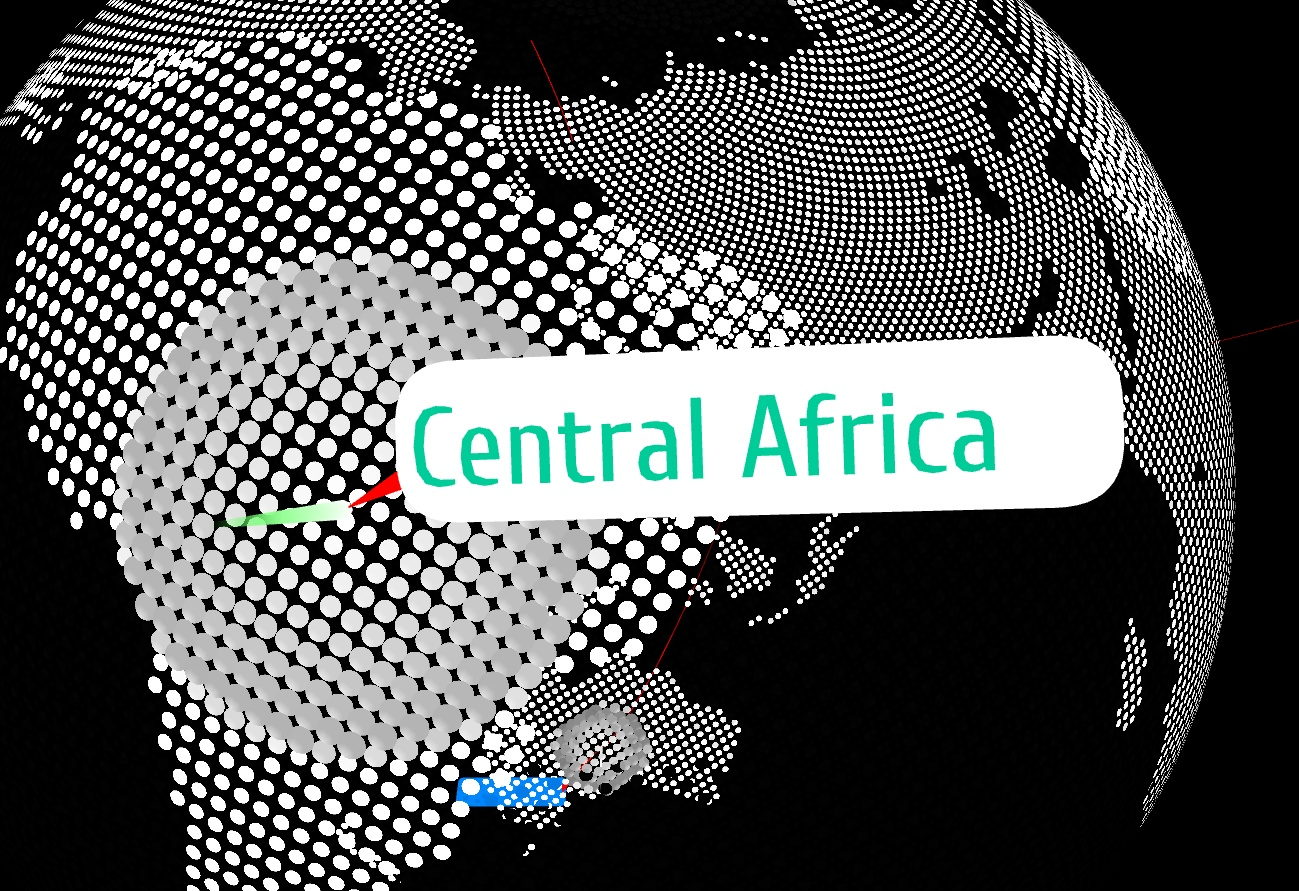
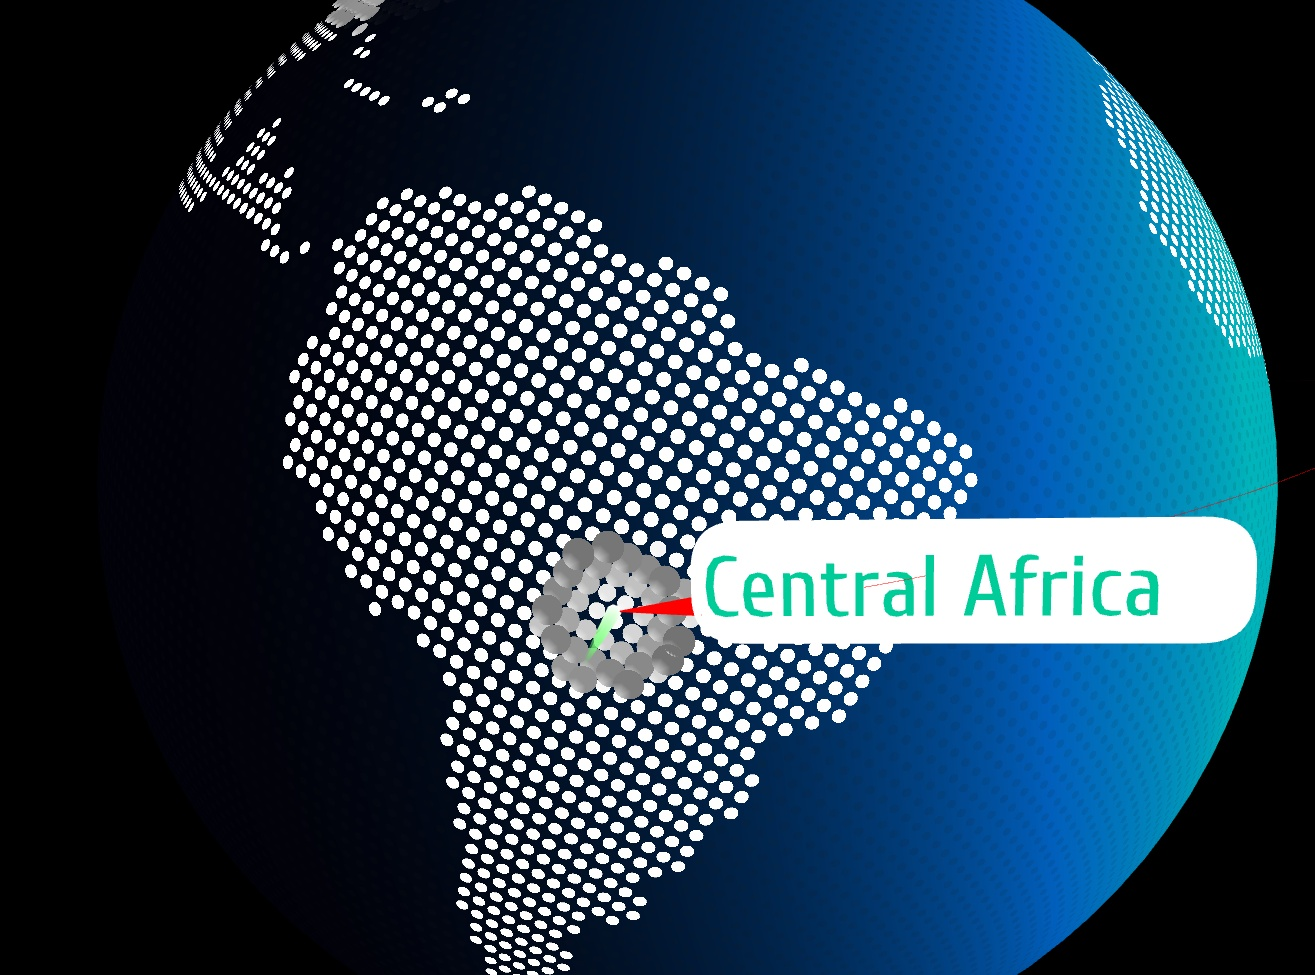
Change settings: add back sphere / Update image

diff --git a/src/script.js b/src/script.js
@@ -53,8 +53,8 @@ const params = {
     opacityOfOceanPoints:0.1,// !FLOAT ONLY! | ex. 0.1 | MIN: 0.1 - black, MAX: 0.9
     countOfPoints:25000,// INT ONLY | ex. 1000 - 40000 | The more — the more points on the planet, but the more difficult the calculations
     showBackMap:true, // BOOLEAN | Removes the view from the planet map that is in the background | IMPORTANT!  if(showGlowedSphere===true)showBackMap=false
-    showSphereToHideBackSide:false, // BOOLEAN | IF TRUE, showBackMap = false || Shows an additional sphere, as if under the map of the planet. This sphere hides the background of the map.
-    hiddenShpereColor:'#0000ff',// HEX Color | If you want to disable showing the background of the planet map, then an additional object is created in the form of a sphere, which also hides some elements on the back of the planet, which is, as it were, in the background from you
+    showSphereToHideBackSide:true, // BOOLEAN | IF TRUE, showBackMap = false || Shows an additional sphere, as if under the map of the planet. This sphere hides the background of the map.
+    hiddenShpereColor:'#04051e',// HEX Color | If you want to disable showing the background of the planet map, then an additional object is created in the form of a sphere, which also hides some elements on the back of the planet, which is, as it were, in the background from you
     hiddenSphereOpacity:1,
     showGlowedSphere:true,
     showGlowedSphereColor:0x005caf,
